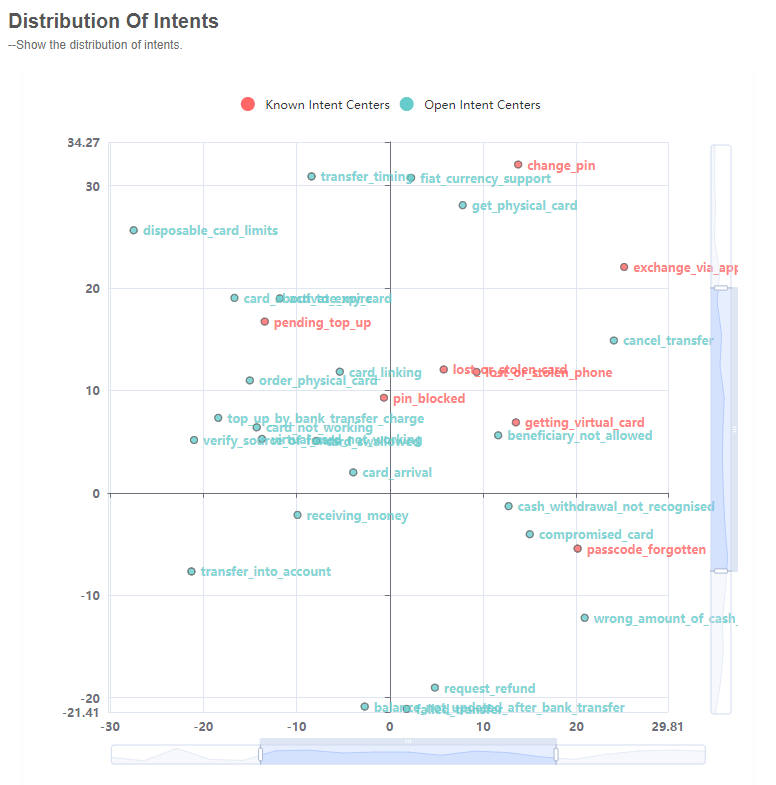
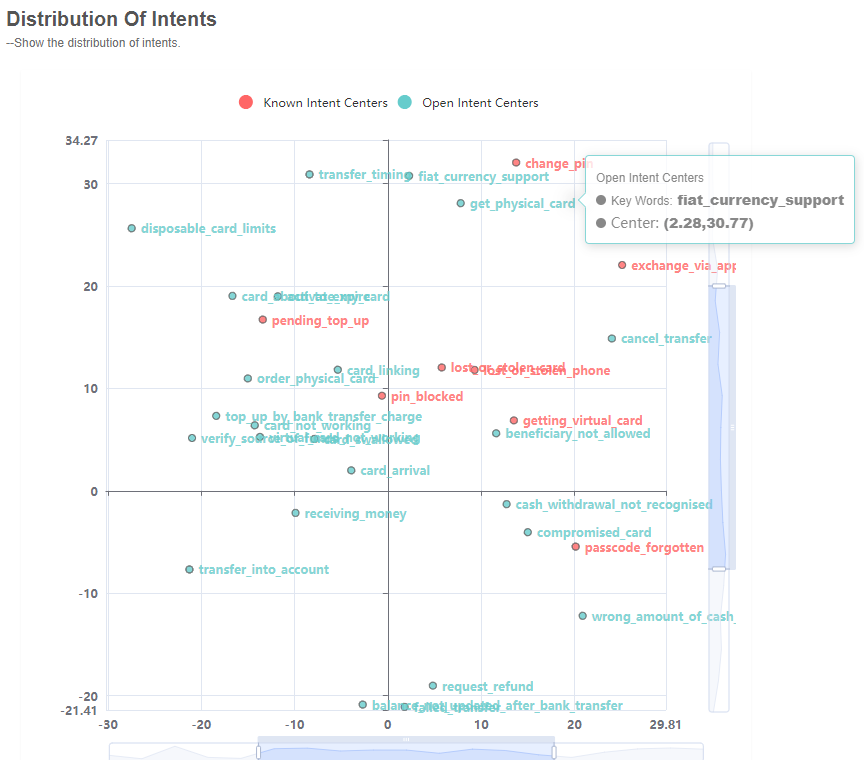
update

diff --git a/README.md b/README.md
@@ -89,11 +89,11 @@ Our platform supports training the algorithms in two modules. Users can add a ne
 
 After training starts, users can monitor the training status (finished or failed), observe the set training information, and jump to the evaluation and analysis module corresponding to the training record.
 
-Training for open intent detection:  
+Example of training for open intent detection:  
 
 ![Example](materials/detection_train.png "Example")
 
-Training for open intent discovery:  
+Example of training for open intent discovery:  
 
 ![Example](materials/discovery_train.png "Example")
 
@@ -101,22 +101,22 @@ Training for open intent discovery:
 
 In this module, we show the basic information about the training record, the training results (loss and validation score), the testing results. Moreover, the fine-grained performance of each class and the corresponding error analysis.
 
-Example for parameters and testing results:  
+1. Example of training parameters and testing results:  
 
 ![Example](materials/evaluation_param_test.png "Example")
 
-Example for training results:
+2. Example of training results:
 
-<img src="materials/training_results.png" width="500" height = "170">
+![Example](materials/training_results.png "Example")
 
 
-Example for fine-grained performance:
+3. Example of fine-grained performance:
 
-<img src="materials/fine-grained.png" width="400" height = "200">
+<img src="materials/fine-grained.png" width="700" height = "350">
 
-Evaluation for error analysis:  
+4. Example of error analysis:  
 
-<img src="materials/error_analysis.png" width="400" height = "200">
+<img src="materials/error_analysis.png" width="700" height = "350">
 
 ### Model Analysis
 
@@ -126,11 +126,11 @@ In this module, we first show the fine-grained predicted results of each sample.
 
 We divide the methods into threshold-based methods and geometrical feature based methods. Threshold-based methods are shown in the format of probability distribution. Geometrical feature based methods show the intent features of different points.
 
-Example of analysis table:
+1. Example of analysis table:
 
 ![Example](materials/analysis_table.png "Example")
 
-Example of analysis results:
+2. Example of analysis results:
 ![Example](materials/detection_analysis.png "Example")
 
 
@@ -139,16 +139,19 @@ Example of analysis results:
 
 As we adopt clustering methods (semi-supervised and unsupervised) in this module, we obtain clusters of each discovered open intent. We extract the top-3 high-confidence keywords for each cluster and each sample. The distribution of cluster centroids is shown in the 2D plane.
 
-Example of analysis table:
+1. Example of analysis table:
 ![Example](materials/discovery_table.png "Example")
 
-Example of analysis results:
-<img src="materials/discovery_analysis.png" width="400" height = "300">
+2. Example of analysis results:
+
+<img src="materials/discovery_analysis.PNG" width="700" height = "500">
 
 
 ### Open Intent Recognition
 
 This module visualizes the results of the pipeline framework. It shows the identified known intents and the detected open intent from the open intent detection module, and the discovered open intents (keywords with confidence scores) from the open intent discovery module.
+
+Example of open intent recognition:
 
 ![Example](materials/oir.png "Example")
 
@@ -156,16 +159,18 @@ This module visualizes the results of the pipeline framework. It shows the ident
 
 ### Environments
 
-1. Use anaconda to create Python (version >= 3.6) environment.
+1. Use anaconda to create Python (version >= 3.6) environment:
 ```
 conda create --name textoir python=3.6
 conda activate textoir
 ```
-2. Install PyTorch (Cuda version 11.2).
+
+2. Install PyTorch (Cuda version 11.2):
 ```
 conda install pytorch torchvision torchaudio cudatoolkit=11.0 -c pytorch -c conda-forge  
 ```
-3. Install MySQL. 
+
+3. Install MySQL:
 ```
 sudo apt-get install mysql-server
 sudo apt-get install mysql-client
@@ -175,12 +180,12 @@ pip install pymysql
 ```
 ### Database Configuration 
 
-1. Login MySQL with root.
+1. Login MySQL with root:
 ```
 $ mysql -u root -p
 ```
 
-2. Create a database and make configuration.
+2. Create a database and make configuration:
 ```
 mysql> CREATE DATABASE ds;
 mysql> CREATE USER ds IDENTIFIED BY 'your password';
@@ -205,31 +210,33 @@ DATABASES = {
 ```
 
 ### Quick Start
-1. Clone the TEXTOIR-DEMO repository.
+
+1. Clone the TEXTOIR-DEMO repository:
 ```
 git@github.com:HanleiZhang/TEXTOIR-DEMO.git
 cd TEXTOIR-DEMO
 ```
 2. Install related environmental dependencies
 
-Open intent detection
+Open intent detection:
 ```
 cd open_intent_detection
 pip install -r requirements.txt
 ```
 
-Open intent discovery
+Open intent discovery:
 ```
 cd open_intent_discovery
 pip install -r requirements.txt
 ```
 
-3. Run frontend interfaces.
+3. Run frontend interfaces:
 ```
 cd frontend
 python manage.py runserver 0.0.0.0:8080
 ```
-4. Run open intent recognition examples.
+
+4. Run open intent recognition examples:
 ```
 cd pipeline
 sh examples/run_ADB_DeepAligned.sh
